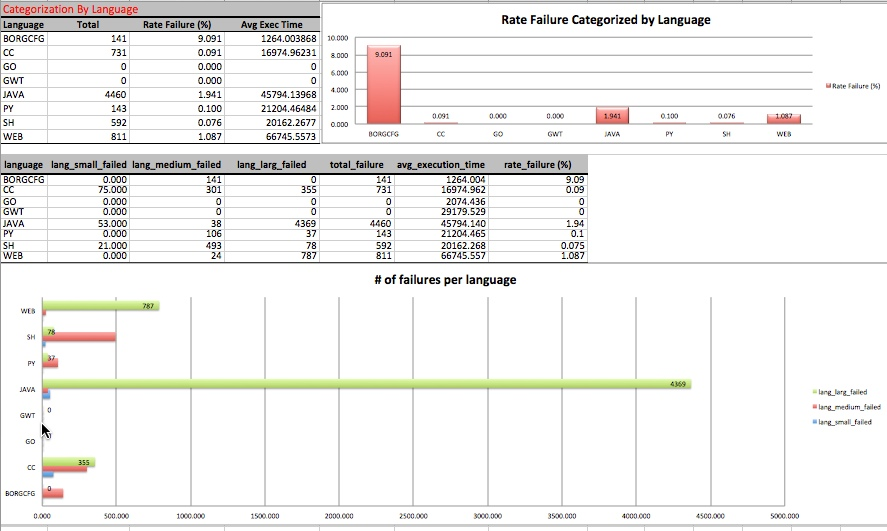
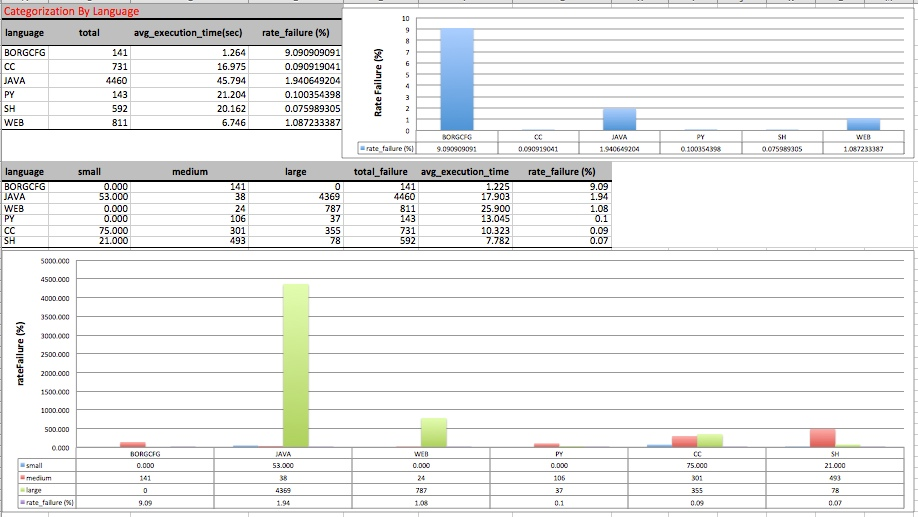
added new files and graphs

diff --git a/report_july_15_2014.html b/report_july_15_2014.html
@@ -987,7 +987,7 @@ containing <strong>6878</strong> change requests</li>
 </table><p><br></p>
 
 <hr><ul>
-<li>Categorization by <strong>Language</strong> (2.1.categorize_by_lang.py)
+<li>Categorization by <strong>Language</strong> (categorize_by_lang.py)
 <hr>
 </li>
 </ul><p><img class="emoji" title=":small_red_triangle_down:" alt=":small_red_triangle_down:" src="https://assets-cdn.github.com/images/icons/emoji/unicode/1f53b.png" height="20" width="20" align="absmiddle"><strong>Pyhton Implementation:</strong></p>
@@ -995,11 +995,9 @@ containing <strong>6878</strong> change requests</li>
 <div class="highlight highlight-python"><pre><span class="kn">import</span> <span class="nn">pymysql</span>
 <span class="kn">import</span> <span class="nn">pdb</span>
 
-<span class="n">conn</span> <span class="o">=</span> <span class="n">pymysql</span><span class="o">.</span><span class="n">connect</span><span class="p">(</span><span class="n">host</span><span class="o">=</span><span class="s">'127.0.0.1'</span><span class="p">,</span> <span class="n">port</span><span class="o">=</span><span class="mi">3306</span><span class="p">,</span> <span class="n">user</span><span class="o">=</span><span class="s">'root'</span><span class="p">,</span> <span class="n">passwd</span><span class="o">=</span><span class="s">'******'</span><span class="p">,</span> <span class="n">db</span><span class="o">=</span><span class="s">'google'</span><span class="p">)</span>
-
+<span class="n">conn</span> <span class="o">=</span> <span class="n">pymysql</span><span class="o">.</span><span class="n">connect</span><span class="p">(</span><span class="n">host</span><span class="o">=</span><span class="s">'cse.unl.edu'</span><span class="p">,</span> <span class="n">port</span><span class="o">=</span><span class="mi">3306</span><span class="p">,</span> <span class="n">user</span><span class="o">=</span><span class="s">'rkrasniq'</span><span class="p">,</span> <span class="n">passwd</span><span class="o">=</span><span class="s">'******'</span><span class="p">,</span> <span class="n">db</span><span class="o">=</span><span class="s">'rkrasniq'</span><span class="p">)</span>
 <span class="n">iterator</span> <span class="o">=</span> <span class="n">conn</span><span class="o">.</span><span class="n">cursor</span><span class="p">()</span>
-
-<span class="n">iterator</span><span class="o">.</span><span class="n">execute</span><span class="p">(</span><span class="s">"SELECT * FROM google_dataset WHERE UPPER(stage) = 'POST' GROUP BY test_language"</span><span class="p">)</span> 
+<span class="n">iterator</span><span class="o">.</span><span class="n">execute</span><span class="p">(</span><span class="s">"SELECT * FROM google_dataset WHERE stage = 'POST' GROUP BY test_language"</span><span class="p">)</span> 
 
 <span class="n">records</span> <span class="o">=</span> <span class="p">[]</span>
 
@@ -1009,27 +1007,29 @@ containing <strong>6878</strong> change requests</li>
 <span class="n">iterator</span><span class="o">.</span><span class="n">close</span><span class="p">()</span>
 
 <span class="k">for</span> <span class="n">record</span> <span class="ow">in</span> <span class="n">records</span><span class="p">:</span>
-  <span class="n">test_language</span> <span class="o">=</span> <span class="n">record</span><span class="p">[</span><span class="mi">7</span><span class="p">]</span>
+  <span class="n">test_language</span> <span class="o">=</span> <span class="n">record</span><span class="p">[</span><span class="mi">11</span><span class="p">]</span>
 
 
   <span class="n">lang_cursor</span> <span class="o">=</span> <span class="n">conn</span><span class="o">.</span><span class="n">cursor</span><span class="p">()</span> 
-  <span class="n">lang_cursor</span><span class="o">.</span><span class="n">execute</span><span class="p">(</span><span class="s">"SELECT * FROM google_dataset WHERE test_language = '</span><span class="si">%s</span><span class="s">' AND WHERE UPPER(stage) = 'POST'"</span> <span class="o">%</span> <span class="n">test_language</span><span class="p">)</span>
+  <span class="n">lang_cursor</span><span class="o">.</span><span class="n">execute</span><span class="p">(</span><span class="s">"SELECT * FROM google_dataset WHERE stage = 'POST' AND test_language = '</span><span class="si">%s</span><span class="s">'"</span> <span class="o">%</span> <span class="n">test_language</span><span class="p">)</span>
 
   <span class="n">recs</span> <span class="o">=</span> <span class="p">[]</span>
   <span class="k">for</span> <span class="n">row</span> <span class="ow">in</span> <span class="n">lang_cursor</span><span class="p">:</span>
     <span class="n">recs</span><span class="o">.</span><span class="n">append</span><span class="p">(</span><span class="n">row</span><span class="p">)</span> 
 
-  <span class="n">total_failure</span> <span class="o">=</span> <span class="nb">float</span><span class="p">(</span><span class="nb">len</span><span class="p">(</span><span class="nb">filter</span><span class="p">(</span><span class="k">lambda</span> <span class="n">x</span><span class="p">:</span> <span class="n">x</span><span class="p">[</span><span class="mi">9</span><span class="p">]</span> <span class="o">==</span> <span class="s">"FAILED"</span><span class="p">,</span> <span class="n">recs</span><span class="p">)))</span>
+  <span class="n">total_failure</span> <span class="o">=</span> <span class="nb">float</span><span class="p">(</span><span class="nb">len</span><span class="p">(</span><span class="nb">filter</span><span class="p">(</span><span class="k">lambda</span> <span class="n">x</span><span class="p">:</span> <span class="n">x</span><span class="p">[</span><span class="mi">5</span><span class="p">]</span> <span class="o">==</span> <span class="s">"FAILED"</span><span class="p">,</span> <span class="n">recs</span><span class="p">)))</span>
   <span class="n">total_records</span> <span class="o">=</span> <span class="nb">float</span><span class="p">(</span><span class="nb">len</span><span class="p">(</span><span class="n">recs</span><span class="p">))</span>
 
   <span class="k">if</span> <span class="n">total_failure</span> <span class="o">!=</span> <span class="mi">0</span><span class="p">:</span>
-    <span class="n">avg_exec_time</span> <span class="o">=</span> <span class="nb">reduce</span><span class="p">(</span><span class="k">lambda</span> <span class="n">x</span><span class="p">,</span> <span class="n">y</span><span class="p">:</span> <span class="n">x</span> <span class="o">+</span> <span class="n">y</span><span class="p">,</span> <span class="nb">map</span><span class="p">(</span><span class="k">lambda</span> <span class="n">z</span><span class="p">:</span> <span class="nb">float</span><span class="p">(</span><span class="n">z</span><span class="p">[</span><span class="mi">2</span><span class="p">]),</span> <span class="n">recs</span><span class="p">))</span> <span class="o">/</span> <span class="nb">float</span><span class="p">(</span><span class="nb">len</span><span class="p">(</span><span class="n">recs</span><span class="p">))</span>
+    <span class="n">avg_exec_time</span> <span class="o">=</span> <span class="nb">reduce</span><span class="p">(</span><span class="k">lambda</span> <span class="n">x</span><span class="p">,</span> <span class="n">y</span><span class="p">:</span> <span class="n">x</span> <span class="o">+</span> <span class="n">y</span><span class="p">,</span> <span class="nb">map</span><span class="p">(</span><span class="k">lambda</span> <span class="n">z</span><span class="p">:</span> <span class="nb">float</span><span class="p">(</span><span class="n">z</span><span class="p">[</span><span class="mi">7</span><span class="p">]),</span> <span class="n">recs</span><span class="p">))</span> <span class="o">/</span> <span class="nb">float</span><span class="p">(</span><span class="nb">len</span><span class="p">(</span><span class="n">recs</span><span class="p">))</span>
   <span class="k">else</span><span class="p">:</span>
-    <span class="n">avg_exec_time</span> <span class="o">=</span> <span class="mi">0</span>
+    <span class="n">avg_exec_time</span> <span class="o">=</span> <span class="mi">0</span> 
 
-  <span class="k">print</span> <span class="n">test_language</span> <span class="o">+</span> <span class="s">"</span><span class="se">\t</span><span class="s">"</span> <span class="o">+</span> <span class="nb">str</span><span class="p">(</span><span class="n">total_failure</span><span class="p">)</span> <span class="o">+</span> 
-              <span class="s">"</span><span class="se">\t</span><span class="s">"</span> <span class="o">+</span> <span class="nb">str</span><span class="p">((</span><span class="mf">100.0</span> <span class="o">*</span> <span class="n">total_failure</span><span class="p">)</span> <span class="o">/</span> <span class="n">total_records</span><span class="p">)</span> <span class="o">+</span> 
-              <span class="s">"</span><span class="se">\t</span><span class="s">"</span> <span class="o">+</span> <span class="nb">str</span><span class="p">(</span><span class="n">avg_exec_time</span><span class="p">)</span>
+      <span class="k">if</span> <span class="n">total_failure</span> <span class="o">&gt;</span> <span class="mi">0</span><span class="p">:</span>
+      <span class="k">print</span> <span class="n">test_language</span> <span class="o">+</span> <span class="s">"</span><span class="se">\t</span><span class="s">"</span> \
+         <span class="o">+</span> <span class="nb">str</span><span class="p">(</span><span class="n">total_failure</span><span class="p">)</span> <span class="o">+</span> <span class="s">"</span><span class="se">\t</span><span class="s">"</span> \
+         <span class="o">+</span> <span class="nb">str</span><span class="p">((</span><span class="n">avg_exec_time</span><span class="o">/</span><span class="mi">1000</span><span class="p">)</span><span class="o">%</span><span class="mi">60</span><span class="p">)</span> <span class="o">+</span> <span class="s">"</span><span class="se">\t</span><span class="s">"</span> \
+         <span class="o">+</span> <span class="nb">str</span><span class="p">((</span><span class="mf">100.0</span> <span class="o">*</span> <span class="n">total_failure</span><span class="p">)</span> <span class="o">/</span> <span class="n">total_records</span><span class="p">)</span> 
   <span class="n">lang_cursor</span><span class="o">.</span><span class="n">close</span><span class="p">()</span>
 
 <span class="n">conn</span><span class="o">.</span><span class="n">close</span><span class="p">()</span>  
@@ -1069,41 +1069,42 @@ containing <strong>6878</strong> change requests</li>
 <div class="highlight highlight-python"><pre><span class="kn">import</span> <span class="nn">pymysql</span>
 <span class="kn">import</span> <span class="nn">pdb</span>
 
-<span class="n">conn</span> <span class="o">=</span> <span class="n">pymysql</span><span class="o">.</span><span class="n">connect</span><span class="p">(</span><span class="n">host</span><span class="o">=</span><span class="s">'127.0.0.1'</span><span class="p">,</span> <span class="n">port</span><span class="o">=</span><span class="mi">3306</span><span class="p">,</span> <span class="n">user</span><span class="o">=</span><span class="s">'root'</span><span class="p">,</span> <span class="n">passwd</span><span class="o">=</span><span class="s">'******'</span><span class="p">,</span> <span class="n">db</span><span class="o">=</span><span class="s">'google'</span><span class="p">)</span>
-
+<span class="n">conn</span> <span class="o">=</span> <span class="n">pymysql</span><span class="o">.</span><span class="n">connect</span><span class="p">(</span><span class="n">host</span><span class="o">=</span><span class="s">'cse.unl.edu'</span><span class="p">,</span> <span class="n">port</span><span class="o">=</span><span class="mi">3306</span><span class="p">,</span> <span class="n">user</span><span class="o">=</span><span class="s">'rkrasniq'</span><span class="p">,</span> <span class="n">passwd</span><span class="o">=</span><span class="s">'******'</span><span class="p">,</span> <span class="n">db</span><span class="o">=</span><span class="s">'rkrasniq'</span><span class="p">)</span>
 <span class="n">iterator</span> <span class="o">=</span> <span class="n">conn</span><span class="o">.</span><span class="n">cursor</span><span class="p">()</span>
-
-<span class="n">iterator</span><span class="o">.</span><span class="n">execute</span><span class="p">(</span><span class="s">"SELECT * FROM google_dataset WHERE UPPER(stage) = 'POST' GROUP BY test_language, test_size"</span><span class="p">)</span> 
+<span class="n">iterator</span><span class="o">.</span><span class="n">execute</span><span class="p">(</span><span class="s">"SELECT * FROM google_dataset WHERE stage = 'POST' GROUP BY test_language, test_size"</span><span class="p">)</span> 
 
 <span class="n">records</span> <span class="o">=</span> <span class="p">[]</span>
-
 <span class="k">for</span> <span class="n">row</span> <span class="ow">in</span> <span class="n">iterator</span><span class="p">:</span>
+
   <span class="n">records</span><span class="o">.</span><span class="n">append</span><span class="p">(</span><span class="n">row</span><span class="p">)</span>
 
 <span class="n">iterator</span><span class="o">.</span><span class="n">close</span><span class="p">()</span>
 
 <span class="k">for</span> <span class="n">record</span> <span class="ow">in</span> <span class="n">records</span><span class="p">:</span>
-  <span class="n">test_language</span> <span class="o">=</span> <span class="n">record</span><span class="p">[</span><span class="mi">7</span><span class="p">]</span>
+  <span class="n">test_language</span> <span class="o">=</span> <span class="n">record</span><span class="p">[</span><span class="mi">11</span><span class="p">]</span>
   <span class="n">test_size</span> <span class="o">=</span> <span class="n">record</span><span class="p">[</span><span class="mi">8</span><span class="p">]</span>
 
   <span class="n">lang_cursor</span> <span class="o">=</span> <span class="n">conn</span><span class="o">.</span><span class="n">cursor</span><span class="p">()</span> 
-  <span class="n">lang_cursor</span><span class="o">.</span><span class="n">execute</span><span class="p">(</span><span class="s">"SELECT * FROM google_dataset WHERE test_language = '</span><span class="si">%s</span><span class="s">' AND test_size = '</span><span class="si">%s</span><span class="s">' AND UPPER(stage) = 'POST'"</span> <span class="o">%</span> <span class="p">(</span><span class="n">test_language</span><span class="p">,</span> <span class="n">test_size</span><span class="p">))</span>
+  <span class="n">lang_cursor</span><span class="o">.</span><span class="n">execute</span><span class="p">(</span><span class="s">"SELECT * FROM google_dataset WHERE test_language = '</span><span class="si">%s</span><span class="s">' AND test_size = '</span><span class="si">%s</span><span class="s">' AND stage = 'POST'"</span> <span class="o">%</span> <span class="p">(</span><span class="n">test_language</span><span class="p">,</span> <span class="n">test_size</span><span class="p">))</span>
 
   <span class="n">recs</span> <span class="o">=</span> <span class="p">[]</span>
   <span class="k">for</span> <span class="n">row</span> <span class="ow">in</span> <span class="n">lang_cursor</span><span class="p">:</span>
     <span class="n">recs</span><span class="o">.</span><span class="n">append</span><span class="p">(</span><span class="n">row</span><span class="p">)</span> 
 
-  <span class="n">total_failure</span> <span class="o">=</span> <span class="nb">float</span><span class="p">(</span><span class="nb">len</span><span class="p">(</span><span class="nb">filter</span><span class="p">(</span><span class="k">lambda</span> <span class="n">x</span><span class="p">:</span> <span class="n">x</span><span class="p">[</span><span class="mi">9</span><span class="p">]</span> <span class="o">==</span> <span class="s">"FAILED"</span><span class="p">,</span> <span class="n">recs</span><span class="p">)))</span>
+  <span class="n">total_failure</span> <span class="o">=</span> <span class="nb">float</span><span class="p">(</span><span class="nb">len</span><span class="p">(</span><span class="nb">filter</span><span class="p">(</span><span class="k">lambda</span> <span class="n">x</span><span class="p">:</span> <span class="n">x</span><span class="p">[</span><span class="mi">5</span><span class="p">]</span> <span class="o">==</span> <span class="s">"FAILED"</span><span class="p">,</span> <span class="n">recs</span><span class="p">)))</span>
   <span class="n">total_records</span> <span class="o">=</span> <span class="nb">float</span><span class="p">(</span><span class="nb">len</span><span class="p">(</span><span class="n">recs</span><span class="p">))</span>
 
   <span class="k">if</span> <span class="n">total_failure</span> <span class="o">!=</span> <span class="mi">0</span><span class="p">:</span>
-    <span class="n">avg_exec_time</span> <span class="o">=</span> <span class="nb">reduce</span><span class="p">(</span><span class="k">lambda</span> <span class="n">x</span><span class="p">,</span> <span class="n">y</span><span class="p">:</span> <span class="n">x</span> <span class="o">+</span> <span class="n">y</span><span class="p">,</span> <span class="nb">map</span><span class="p">(</span><span class="k">lambda</span> <span class="n">z</span><span class="p">:</span> <span class="nb">float</span><span class="p">(</span><span class="n">z</span><span class="p">[</span><span class="mi">2</span><span class="p">]),</span> <span class="n">recs</span><span class="p">))</span> <span class="o">/</span> <span class="nb">float</span><span class="p">(</span><span class="nb">len</span><span class="p">(</span><span class="n">recs</span><span class="p">))</span>
+    <span class="n">avg_exec_time</span> <span class="o">=</span> <span class="nb">reduce</span><span class="p">(</span><span class="k">lambda</span> <span class="n">x</span><span class="p">,</span> <span class="n">y</span><span class="p">:</span> <span class="n">x</span> <span class="o">+</span> <span class="n">y</span><span class="p">,</span> <span class="nb">map</span><span class="p">(</span><span class="k">lambda</span> <span class="n">z</span><span class="p">:</span> <span class="nb">float</span><span class="p">(</span><span class="n">z</span><span class="p">[</span><span class="mi">7</span><span class="p">]),</span> <span class="n">recs</span><span class="p">))</span> <span class="o">/</span> <span class="nb">float</span><span class="p">(</span><span class="nb">len</span><span class="p">(</span><span class="n">recs</span><span class="p">))</span>
   <span class="k">else</span><span class="p">:</span>
     <span class="n">avg_exec_time</span> <span class="o">=</span> <span class="mi">0</span> 
 
-  <span class="k">print</span> <span class="n">test_language</span> <span class="o">+</span> <span class="s">"</span><span class="se">\t</span><span class="s">"</span> <span class="o">+</span> <span class="n">test_size</span> <span class="o">+</span> <span class="s">"</span><span class="se">\t</span><span class="s">"</span> <span class="o">+</span> <span class="nb">str</span><span class="p">(</span><span class="n">total_failure</span><span class="p">)</span> <span class="o">+</span> 
-              <span class="s">"</span><span class="se">\t</span><span class="s">"</span> <span class="o">+</span> <span class="nb">str</span><span class="p">((</span><span class="mf">100.0</span> <span class="o">*</span> <span class="n">total_failure</span><span class="p">)</span> <span class="o">/</span> <span class="n">total_records</span><span class="p">)</span> <span class="o">+</span> 
-              <span class="s">"</span><span class="se">\t</span><span class="s">"</span> <span class="o">+</span> <span class="nb">str</span><span class="p">(</span><span class="n">avg_exec_time</span><span class="p">)</span>
+  <span class="k">if</span> <span class="n">total_failure</span> <span class="o">&gt;</span> <span class="mi">0</span><span class="p">:</span>
+    <span class="k">print</span> <span class="n">test_language</span> <span class="o">+</span> <span class="s">"</span><span class="se">\t</span><span class="s">"</span> \
+       <span class="o">+</span> <span class="n">test_size</span> <span class="o">+</span> <span class="s">"</span><span class="se">\t</span><span class="s">"</span> \
+         <span class="o">+</span> <span class="nb">str</span><span class="p">(</span><span class="n">total_failure</span><span class="p">)</span> <span class="o">+</span> <span class="s">"</span><span class="se">\t</span><span class="s">"</span> \
+         <span class="o">+</span> <span class="nb">str</span><span class="p">((</span><span class="n">avg_exec_time</span><span class="o">/</span><span class="mi">1000</span><span class="p">)</span><span class="o">%</span><span class="mi">60</span><span class="p">)</span> <span class="o">+</span> <span class="s">"</span><span class="se">\t</span><span class="s">"</span> \
+         <span class="o">+</span> <span class="nb">str</span><span class="p">((</span><span class="mf">100.0</span> <span class="o">*</span> <span class="n">total_failure</span><span class="p">)</span> <span class="o">/</span> <span class="n">total_records</span><span class="p">)</span> 
   <span class="n">lang_cursor</span><span class="o">.</span><span class="n">close</span><span class="p">()</span>
 
 <span class="n">conn</span><span class="o">.</span><span class="n">close</span><span class="p">()</span>  
@@ -1126,25 +1127,23 @@ containing <strong>6878</strong> change requests</li>
 <span class="k">ORDER</span> <span class="k">BY</span> <span class="n">rate_failure</span> <span class="k">DESC</span><span class="p">;</span>
 </pre></div>
 
-<ul>
-<li>Graph: Categorization By <strong>Language Size</strong> (data_categorization.xsls)</li>
-</ul><p><img class="emoji" title=":small_red_triangle_down:" alt=":small_red_triangle_down:" src="https://assets-cdn.github.com/images/icons/emoji/unicode/1f53b.png" height="20" width="20" align="absmiddle"><strong>Python Results:</strong></p>
+<p><img class="emoji" title=":small_red_triangle_down:" alt=":small_red_triangle_down:" src="https://assets-cdn.github.com/images/icons/emoji/unicode/1f53b.png" height="20" width="20" align="absmiddle"><strong>Python Results:</strong></p>
 
-<p><a href="https://camo.githubusercontent.com/9f614a044f4ec25188123969fb6eba5e11aaed69/687474703a2f2f7272657a617274612d6b7261736e6971692e6769746875622e696f2f6c616e675f616e645f73697a655f74626c2e6a7067" target="_blank"><img src="https://camo.githubusercontent.com/9f614a044f4ec25188123969fb6eba5e11aaed69/687474703a2f2f7272657a617274612d6b7261736e6971692e6769746875622e696f2f6c616e675f616e645f73697a655f74626c2e6a7067" alt="Alt text" data-canonical-src="http://rrezarta-krasniqi.github.io/lang_and_size_tbl.jpg" style="max-width:100%;"></a></p>
+<p><a href="https://camo.githubusercontent.com/26e4a1dbb5900ad77101cbfa98b174160699f195/687474703a2f2f7272657a617274612d6b7261736e6971692e6769746875622e696f2f6c616e675f616e645f73697a652e6a7067" target="_blank"><img src="https://camo.githubusercontent.com/26e4a1dbb5900ad77101cbfa98b174160699f195/687474703a2f2f7272657a617274612d6b7261736e6971692e6769746875622e696f2f6c616e675f616e645f73697a652e6a7067" alt="Alt text" data-canonical-src="http://rrezarta-krasniqi.github.io/lang_and_size.jpg" style="max-width:100%;"></a></p>
 
-<p><br><a href="https://camo.githubusercontent.com/c24a3986fa6426af00807120349a77fac4637583/687474703a2f2f7272657a617274612d6b7261736e6971692e6769746875622e696f2f6c616e675f616e645f73697a655f6669672e6a7067" target="_blank"><img src="https://camo.githubusercontent.com/c24a3986fa6426af00807120349a77fac4637583/687474703a2f2f7272657a617274612d6b7261736e6971692e6769746875622e696f2f6c616e675f616e645f73697a655f6669672e6a7067" alt="Alt text" data-canonical-src="http://rrezarta-krasniqi.github.io/lang_and_size_fig.jpg" style="max-width:100%;"></a></p>
+<p><br></p>
 
 <hr><ul>
-<li>Categorization by <strong>Language Size and Stage</strong> (categorize_by_lang_size_and_stage.py)</li>
-</ul><hr><p><img class="emoji" title=":small_red_triangle_down:" alt=":small_red_triangle_down:" src="https://assets-cdn.github.com/images/icons/emoji/unicode/1f53b.png" height="20" width="20" align="absmiddle"><strong>Python Implementation:</strong></p>
+<li>Categorization by <strong>Language Size and Stage</strong> (categorize_by_lang_size_and_stage.py)
+<hr>
+</li>
+</ul><p><img class="emoji" title=":small_red_triangle_down:" alt=":small_red_triangle_down:" src="https://assets-cdn.github.com/images/icons/emoji/unicode/1f53b.png" height="20" width="20" align="absmiddle"><strong>Python Implementation:</strong></p>
 
 <div class="highlight highlight-python"><pre><span class="kn">import</span> <span class="nn">pymysql</span>
 <span class="kn">import</span> <span class="nn">pdb</span>
 
-<span class="n">conn</span> <span class="o">=</span> <span class="n">pymysql</span><span class="o">.</span><span class="n">connect</span><span class="p">(</span><span class="n">host</span><span class="o">=</span><span class="s">'127.0.0.1'</span><span class="p">,</span> <span class="n">port</span><span class="o">=</span><span class="mi">3306</span><span class="p">,</span> <span class="n">user</span><span class="o">=</span><span class="s">'root'</span><span class="p">,</span> <span class="n">passwd</span><span class="o">=</span><span class="s">'******'</span><span class="p">,</span> <span class="n">db</span><span class="o">=</span><span class="s">'google'</span><span class="p">)</span>
-
+<span class="n">conn</span> <span class="o">=</span> <span class="n">pymysql</span><span class="o">.</span><span class="n">connect</span><span class="p">(</span><span class="n">host</span><span class="o">=</span><span class="s">'cse.unl.edu'</span><span class="p">,</span> <span class="n">port</span><span class="o">=</span><span class="mi">3306</span><span class="p">,</span> <span class="n">user</span><span class="o">=</span><span class="s">'rkrasniq'</span><span class="p">,</span> <span class="n">passwd</span><span class="o">=</span><span class="s">'ob8{i5'</span><span class="p">,</span> <span class="n">db</span><span class="o">=</span><span class="s">'rkrasniq'</span><span class="p">)</span>
 <span class="n">iterator</span> <span class="o">=</span> <span class="n">conn</span><span class="o">.</span><span class="n">cursor</span><span class="p">()</span>
-
 <span class="n">iterator</span><span class="o">.</span><span class="n">execute</span><span class="p">(</span><span class="s">"SELECT * FROM google_dataset GROUP BY test_language, test_size, stage"</span><span class="p">)</span> 
 
 <span class="n">records</span> <span class="o">=</span> <span class="p">[]</span>
@@ -1155,31 +1154,32 @@ containing <strong>6878</strong> change requests</li>
 <span class="n">iterator</span><span class="o">.</span><span class="n">close</span><span class="p">()</span>
 
 <span class="k">for</span> <span class="n">record</span> <span class="ow">in</span> <span class="n">records</span><span class="p">:</span>
-  <span class="n">test_language</span> <span class="o">=</span> <span class="n">record</span><span class="p">[</span><span class="mi">7</span><span class="p">]</span>
-  <span class="n">size</span> <span class="o">=</span> <span class="n">record</span><span class="p">[</span><span class="mi">8</span><span class="p">]</span>
-  <span class="n">stage</span> <span class="o">=</span> <span class="n">record</span><span class="p">[</span><span class="mi">6</span><span class="p">]</span>
+  <span class="n">test_language</span> <span class="o">=</span> <span class="n">record</span><span class="p">[</span><span class="mi">11</span><span class="p">]</span>
+  <span class="n">test_size</span> <span class="o">=</span> <span class="n">record</span><span class="p">[</span><span class="mi">8</span><span class="p">]</span>
+  <span class="n">stage</span> <span class="o">=</span> <span class="n">record</span><span class="p">[</span><span class="mi">4</span><span class="p">]</span>
 
   <span class="n">lang_cursor</span> <span class="o">=</span> <span class="n">conn</span><span class="o">.</span><span class="n">cursor</span><span class="p">()</span> 
-  <span class="n">lang_cursor</span><span class="o">.</span><span class="n">execute</span><span class="p">(</span><span class="s">"SELECT * FROM google_dataset WHERE test_language = '</span><span class="si">%s</span><span class="s">' AND test_size = '</span><span class="si">%s</span><span class="s">'"</span> <span class="n">AND</span> <span class="n">stage</span> <span class="o">=</span> <span class="s">'</span><span class="si">%s</span><span class="s">'" % (test_language, size, stage))</span>
+  <span class="n">lang_cursor</span><span class="o">.</span><span class="n">execute</span><span class="p">(</span><span class="s">"SELECT * FROM google_dataset WHERE test_language = '</span><span class="si">%s</span><span class="s">' AND test_size = '</span><span class="si">%s</span><span class="s">' AND stage = '</span><span class="si">%s</span><span class="s">'"</span> <span class="o">%</span> <span class="p">(</span><span class="n">test_language</span><span class="p">,</span> <span class="n">test_size</span><span class="p">,</span> <span class="n">stage</span><span class="p">))</span>
 
   <span class="n">recs</span> <span class="o">=</span> <span class="p">[]</span>
   <span class="k">for</span> <span class="n">row</span> <span class="ow">in</span> <span class="n">lang_cursor</span><span class="p">:</span>
     <span class="n">recs</span><span class="o">.</span><span class="n">append</span><span class="p">(</span><span class="n">row</span><span class="p">)</span> 
 
-  <span class="n">total_failure</span> <span class="o">=</span> <span class="nb">float</span><span class="p">(</span><span class="nb">len</span><span class="p">(</span><span class="nb">filter</span><span class="p">(</span><span class="k">lambda</span> <span class="n">x</span><span class="p">:</span> <span class="n">x</span><span class="p">[</span><span class="mi">9</span><span class="p">]</span> <span class="o">==</span> <span class="s">"FAILED"</span><span class="p">,</span> <span class="n">recs</span><span class="p">)))</span>
+  <span class="n">total_failure</span> <span class="o">=</span> <span class="nb">float</span><span class="p">(</span><span class="nb">len</span><span class="p">(</span><span class="nb">filter</span><span class="p">(</span><span class="k">lambda</span> <span class="n">x</span><span class="p">:</span> <span class="n">x</span><span class="p">[</span><span class="mi">5</span><span class="p">]</span> <span class="o">==</span> <span class="s">"FAILED"</span><span class="p">,</span> <span class="n">recs</span><span class="p">)))</span>
   <span class="n">total_records</span> <span class="o">=</span> <span class="nb">float</span><span class="p">(</span><span class="nb">len</span><span class="p">(</span><span class="n">recs</span><span class="p">))</span>
 
   <span class="k">if</span> <span class="n">total_failure</span> <span class="o">!=</span> <span class="mi">0</span><span class="p">:</span>
-    <span class="n">avg_exec_time</span> <span class="o">=</span> <span class="nb">reduce</span><span class="p">(</span><span class="k">lambda</span> <span class="n">x</span><span class="p">,</span> <span class="n">y</span><span class="p">:</span> <span class="n">x</span> <span class="o">+</span> <span class="n">y</span><span class="p">,</span> <span class="nb">map</span><span class="p">(</span><span class="k">lambda</span> <span class="n">z</span><span class="p">:</span> <span class="nb">float</span><span class="p">(</span><span class="n">z</span><span class="p">[</span><span class="mi">2</span><span class="p">]),</span> <span class="nb">filter</span><span class="p">(</span><span class="k">lambda</span> <span class="n">x</span><span class="p">:</span> <span class="n">x</span><span class="p">[</span><span class="mi">9</span><span class="p">]</span> <span class="o">==</span> <span class="s">"FAILED"</span><span class="p">,</span> <span class="n">recs</span><span class="p">)))</span> <span class="o">/</span> <span class="nb">float</span><span class="p">(</span><span class="nb">len</span><span class="p">(</span><span class="n">recs</span><span class="p">))</span>
+    <span class="n">avg_exec_time</span> <span class="o">=</span> <span class="nb">reduce</span><span class="p">(</span><span class="k">lambda</span> <span class="n">x</span><span class="p">,</span> <span class="n">y</span><span class="p">:</span> <span class="n">x</span> <span class="o">+</span> <span class="n">y</span><span class="p">,</span> <span class="nb">map</span><span class="p">(</span><span class="k">lambda</span> <span class="n">z</span><span class="p">:</span> <span class="nb">float</span><span class="p">(</span><span class="n">z</span><span class="p">[</span><span class="mi">7</span><span class="p">]),</span> <span class="n">recs</span><span class="p">))</span> <span class="o">/</span> <span class="nb">float</span><span class="p">(</span><span class="nb">len</span><span class="p">(</span><span class="n">recs</span><span class="p">))</span>
   <span class="k">else</span><span class="p">:</span>
     <span class="n">avg_exec_time</span> <span class="o">=</span> <span class="mi">0</span>
 
-  <span class="k">print</span> <span class="n">test_language</span> <span class="o">+</span> 
-              <span class="s">"</span><span class="se">\t</span><span class="s">"</span> <span class="o">+</span> <span class="n">size</span> <span class="o">+</span>
-              <span class="s">"</span><span class="se">\t</span><span class="s">"</span> <span class="o">+</span> <span class="n">stage</span> <span class="o">+</span>
-              <span class="s">"</span><span class="se">\t</span><span class="s">"</span> <span class="o">+</span> <span class="nb">str</span><span class="p">(</span><span class="n">total_failure</span><span class="p">)</span> <span class="o">+</span> 
-              <span class="s">"</span><span class="se">\t</span><span class="s">"</span> <span class="o">+</span> <span class="nb">str</span><span class="p">((</span><span class="mf">100.0</span> <span class="o">*</span> <span class="n">total_failure</span><span class="p">)</span> <span class="o">/</span> <span class="n">total_records</span><span class="p">)</span> <span class="o">+</span>
-              <span class="s">"</span><span class="se">\t</span><span class="s">"</span> <span class="o">+</span> <span class="nb">str</span><span class="p">(</span><span class="n">avg_exec_time</span><span class="p">)</span>
+  <span class="k">if</span> <span class="n">total_failure</span> <span class="o">&gt;</span> <span class="mi">0</span><span class="p">:</span>
+             <span class="k">print</span> <span class="n">test_language</span> <span class="o">+</span> <span class="s">"</span><span class="se">\t</span><span class="s">"</span> \
+                 <span class="o">+</span> <span class="n">test_size</span> <span class="o">+</span> <span class="s">"</span><span class="se">\t</span><span class="s">"</span> \
+                 <span class="o">+</span> <span class="n">stage</span> <span class="o">+</span> <span class="s">"</span><span class="se">\t</span><span class="s">"</span> \
+                 <span class="o">+</span> <span class="nb">str</span><span class="p">(</span><span class="n">total_failure</span><span class="p">)</span> <span class="o">+</span> <span class="s">"</span><span class="se">\t</span><span class="s">"</span> \
+                 <span class="o">+</span> <span class="nb">str</span><span class="p">((</span><span class="n">avg_exec_time</span><span class="o">/</span><span class="mi">1000</span><span class="p">)</span><span class="o">%</span><span class="mi">60</span><span class="p">)</span> <span class="o">+</span> <span class="s">"</span><span class="se">\t</span><span class="s">"</span> \
+                 <span class="o">+</span> <span class="nb">str</span><span class="p">((</span><span class="mf">100.0</span> <span class="o">*</span> <span class="n">total_failure</span><span class="p">)</span> <span class="o">/</span> <span class="n">total_records</span><span class="p">)</span> 
   <span class="n">lang_cursor</span><span class="o">.</span><span class="n">close</span><span class="p">()</span>
 
 <span class="n">conn</span><span class="o">.</span><span class="n">close</span><span class="p">()</span>  
@@ -1208,15 +1208,15 @@ containing <strong>6878</strong> change requests</li>
 
 <ul>
 <li>Graph: Categorization By <strong>Language, Size and Stage</strong> (data_categorization.xsls)</li>
-</ul><p><a href="https://camo.githubusercontent.com/d1ff5cc2207879ea4725d8d6f605104e1c8a8535/687474703a2f2f7272657a617274612d6b7261736e6971692e6769746875622e696f2f6c616e675f73697a655f616e645f73746167652e6a7067" target="_blank"><img src="https://camo.githubusercontent.com/d1ff5cc2207879ea4725d8d6f605104e1c8a8535/687474703a2f2f7272657a617274612d6b7261736e6971692e6769746875622e696f2f6c616e675f73697a655f616e645f73746167652e6a7067" alt="Alt text" data-canonical-src="http://rrezarta-krasniqi.github.io/lang_size_and_stage.jpg" style="max-width:100%;"></a></p>
+</ul><p><a href="https://camo.githubusercontent.com/d74e2b30c6e1937d83012bdcafa1446590f3b654/687474703a2f2f7272657a617274612d6b7261736e6971692e6769746875622e696f2f6c616e675f73697a655f616e645f73746167655f67726170682e6a7067" target="_blank"><img src="https://camo.githubusercontent.com/d74e2b30c6e1937d83012bdcafa1446590f3b654/687474703a2f2f7272657a617274612d6b7261736e6971692e6769746875622e696f2f6c616e675f73697a655f616e645f73746167655f67726170682e6a7067" alt="Alt text" data-canonical-src="http://rrezarta-krasniqi.github.io/lang_size_and_stage_graph.jpg" style="max-width:100%;"></a></p>
 
 <p><img class="emoji" title=":small_red_triangle_down:" alt=":small_red_triangle_down:" src="https://assets-cdn.github.com/images/icons/emoji/unicode/1f53b.png" height="20" width="20" align="absmiddle"><strong>Python Results:</strong></p>
 
-<p><a href="https://camo.githubusercontent.com/d1ff5cc2207879ea4725d8d6f605104e1c8a8535/687474703a2f2f7272657a617274612d6b7261736e6971692e6769746875622e696f2f6c616e675f73697a655f616e645f73746167652e6a7067" target="_blank"><img src="https://camo.githubusercontent.com/d1ff5cc2207879ea4725d8d6f605104e1c8a8535/687474703a2f2f7272657a617274612d6b7261736e6971692e6769746875622e696f2f6c616e675f73697a655f616e645f73746167652e6a7067" alt="Alt text" data-canonical-src="http://rrezarta-krasniqi.github.io/lang_size_and_stage.jpg" style="max-width:100%;"></a></p>
+<p><a href="https://camo.githubusercontent.com/e8bba89a0c798083c99fee560102adb0f1bef096/687474703a2f2f7272657a617274612d6b7261736e6971692e6769746875622e696f2f6c616e675f73697a655f616e645f73746167655f726573756c74732e6a7067" target="_blank"><img src="https://camo.githubusercontent.com/e8bba89a0c798083c99fee560102adb0f1bef096/687474703a2f2f7272657a617274612d6b7261736e6971692e6769746875622e696f2f6c616e675f73697a655f616e645f73746167655f726573756c74732e6a7067" alt="Alt text" data-canonical-src="http://rrezarta-krasniqi.github.io/lang_size_and_stage_results.jpg" style="max-width:100%;"></a></p>
 
 <p><br></p>
 
-<hr><p>Unique Failing Test Suites (executions) (unique_faling_test_suites_post_pre.sql)</p>
+<hr><p>Unique Failing Test Suites (Executions) During ECT Phase (unique_faling_test_suites_post_pre.sql)</p>
 
 <hr><p><img class="emoji" title=":bulb:" alt=":bulb:" src="https://assets-cdn.github.com/images/icons/emoji/unicode/1f4a1.png" height="20" width="20" align="absmiddle"><strong>NOTE:</strong></p>
 
